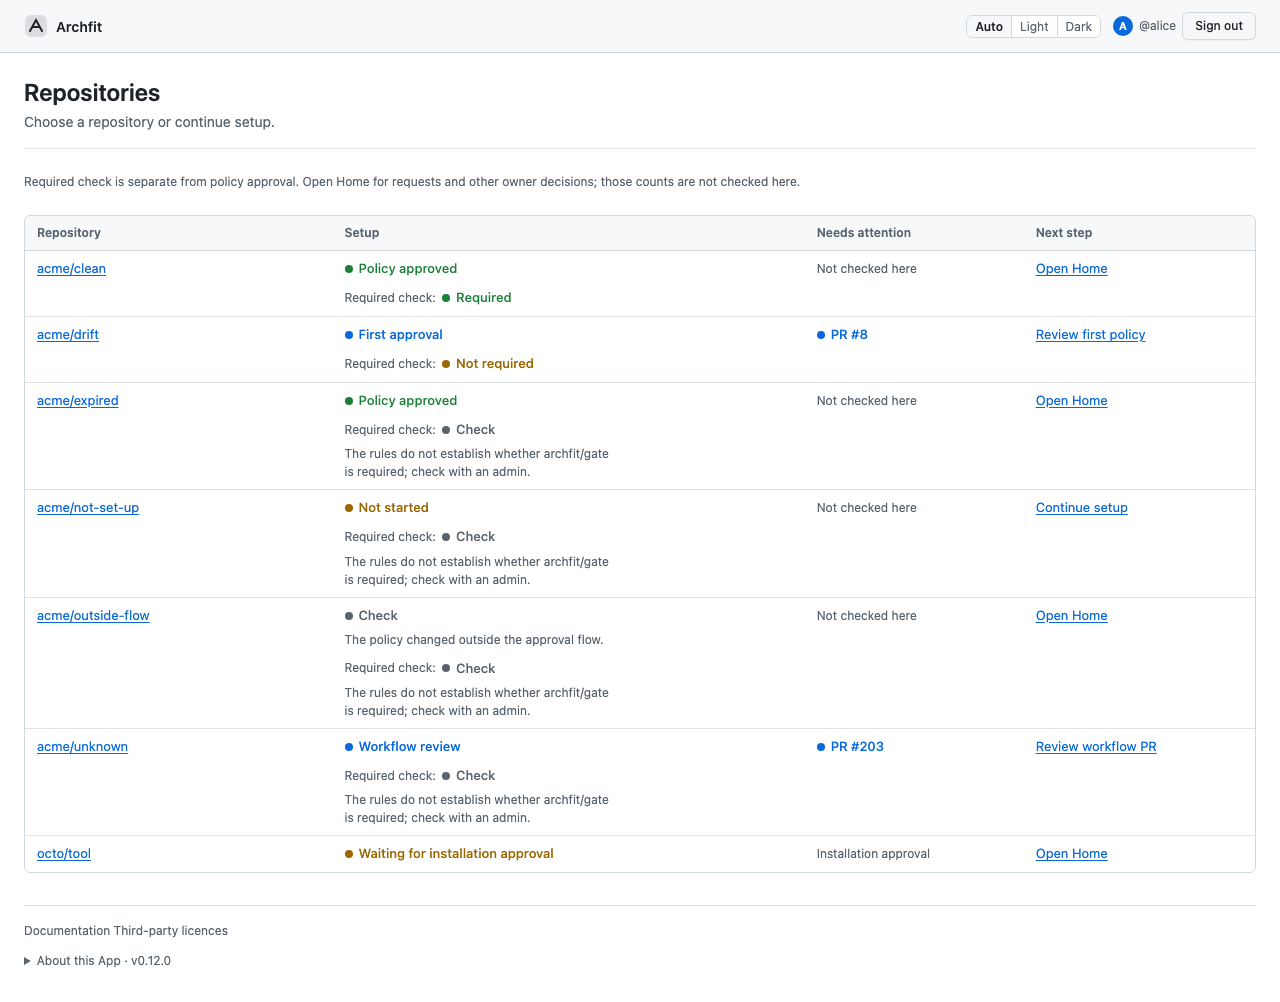
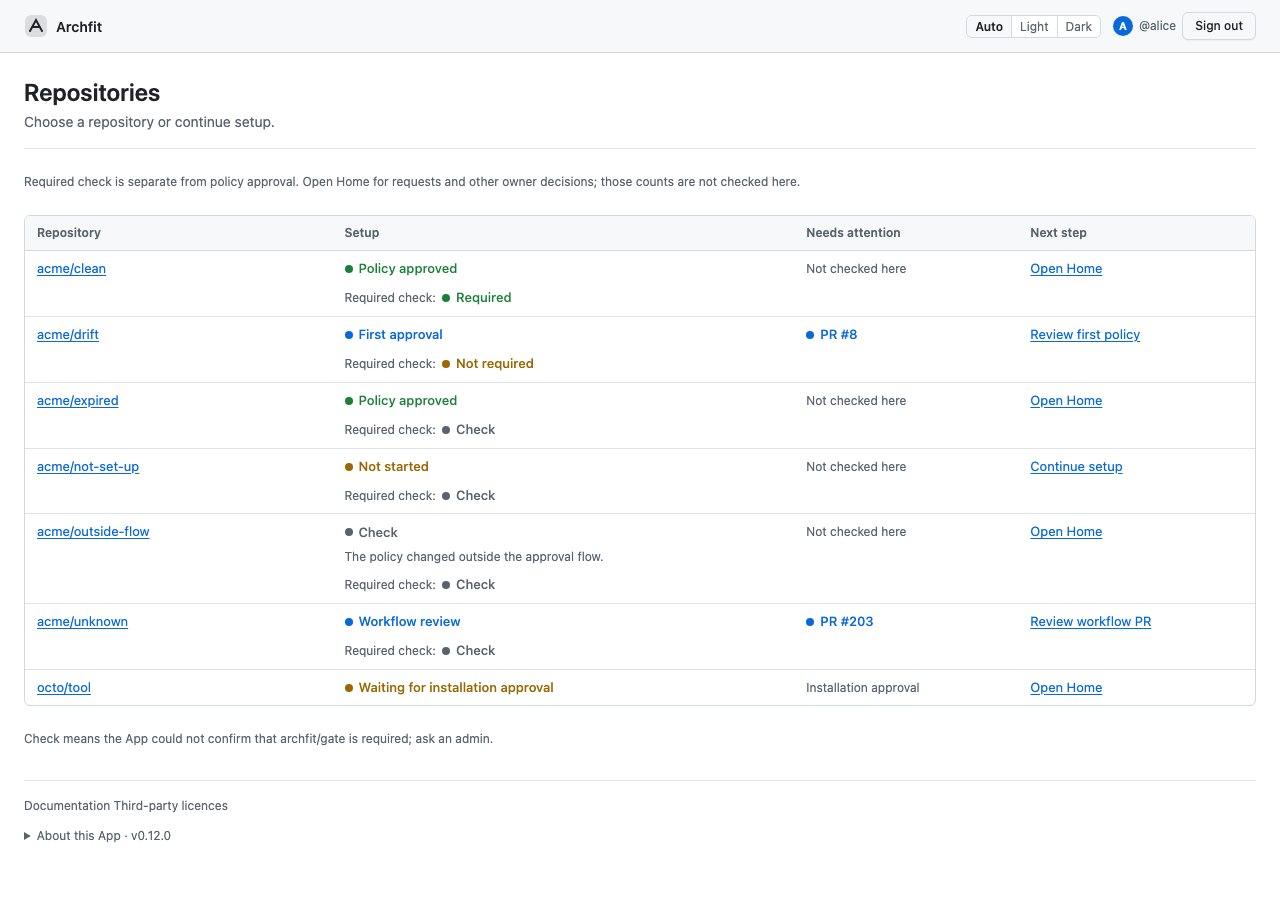
fix(web): route repository approvals through eligible surfaces

diff --git a/web/e2e/repos.spec.ts b/web/e2e/repos.spec.ts
@@ -23,7 +23,7 @@ for (const width of [1280, 390]) {
     }
     await expect(page.getByRole('link', { name: 'Review first policy' })).toHaveAttribute(
       'href',
-      '/r/acme/drift/owner/first?pull=8',
+      '/r/acme/drift/pull/8',
     );
     await expect(page.getByRole('link', { name: 'Review workflow PR' })).toHaveAttribute(
       'href',
@@ -32,6 +32,17 @@ for (const width of [1280, 390]) {
     await expect(page.getByText('PR #203', { exact: true })).toBeVisible();
     await expect(page.getByText('The policy changed outside the approval flow.')).toBeVisible();
     await expect(page.getByText('0 requests', { exact: true })).toHaveCount(0);
+    await expect(page.locator('main a[href*="/owner/"]')).toHaveCount(0);
+    await expect(
+      page.getByText('Check means the App could not confirm that archfit/gate is required; ask an admin.', {
+        exact: true,
+      }),
+    ).toHaveCount(1);
+    await expect(
+      page.getByText('The rules do not establish whether archfit/gate is required; check with an admin.', {
+        exact: true,
+      }),
+    ).toHaveCount(0);
     await expect(page.getByText('@alice')).toBeVisible();
     await expect(page.locator('form[action="/auth/logout"] input[name="csrf"]')).toHaveValue(session.csrf);
     if (width === 390) {
@@ -76,5 +87,11 @@ test('repositories: unread setup explains Check and offers Home without a false 
   await expect(page.getByText('The App could not read setup; open Home to try again.')).toBeVisible();
   await expect(page.getByRole('link', { name: 'Open Home', exact: true })).toHaveAttribute('href', '/r/acme/app');
   await expect(page.getByText('Policy approved', { exact: true })).toHaveCount(0);
+  await expect(page.getByText('The App could not read the required-check settings.', { exact: true })).toHaveCount(0);
+  await expect(
+    page.getByText('Check means the App could not confirm that archfit/gate is required; ask an admin.', {
+      exact: true,
+    }),
+  ).toHaveCount(1);
   await expectClean(page, reposApprovedCopy);
 });

diff --git a/web/src/lib/repos.ts b/web/src/lib/repos.ts
@@ -27,7 +27,7 @@ export function enforcementLabel(state: string): string {
   }
 }
 
-// Only the current repository's Home, PR and first-policy review are emitted by the list API.
+// Home and Pull resolve owner-action eligibility; the list must not bypass them.
 export function nextStep(row: RepoRow): { text: string; href: string } {
   const base = repoPage(row.full_name);
   const next = row.next_step;
@@ -35,8 +35,7 @@ export function nextStep(row: RepoRow): { text: string; href: string } {
     next &&
     next.text &&
     (next.href === base ||
-      (next.href.startsWith(base + '/') &&
-        /^(pull\/[1-9]\d*|owner\/first(?:\?pull=[1-9]\d*)?)$/.test(next.href.slice(base.length + 1))))
+      (next.href.startsWith(base + '/') && /^pull\/[1-9]\d*$/.test(next.href.slice(base.length + 1))))
   ) {
     return next;
   }

diff --git a/web/src/lib/repos.test.ts b/web/src/lib/repos.test.ts
@@ -30,7 +30,7 @@ describe('repository next destination', () => {
     enforcement: 'check',
     next_step: { text: 'Open Home', href: '/r/acme/app' },
   };
-  it.each(['/r/acme/app', '/r/acme/app/pull/203', '/r/acme/app/owner/first?pull=8', '/r/acme/app/owner/first'])(
+  it.each(['/r/acme/app', '/r/acme/app/pull/203', '/r/acme/app/pull/8'])(
     'keeps the server-selected destination %s',
     (href) => {
       const next = { text: 'Continue', href };
@@ -42,6 +42,8 @@ describe('repository next destination', () => {
     '//other.example',
     '/r/other/app',
     '/r/acme/app/pull/0',
+    '/r/acme/app/owner/first',
+    '/r/acme/app/owner/first?pull=8',
     '/r/acme/app/owner/first?pull=-1',
     '/r/acme/app/owner/first?pull=8&other=x',
     '/r/acme/app/pull/203/../../other',

diff --git a/web/src/pages/Repos.svelte b/web/src/pages/Repos.svelte
@@ -66,7 +66,6 @@
                     class:neutral={!['required', 'not_required'].includes(row.enforcement)}
                   >{enforcementLabel(row.enforcement)}</span>
                 </div>
-                {#if row.enforcement_reason}<p class="muted small reason">{row.enforcement_reason}</p>{/if}
               {/if}
             </td>
             <td>
@@ -83,6 +82,7 @@
       </tbody>
     </table>
   </div>
+  <p class="muted small">Check means the App could not confirm that archfit/gate is required; ask an admin.</p>
   {#if body.truncated}
     <p class="muted small">Only the first repositories by name are listed.</p>
   {/if}

diff --git a/internal/control/ui/overview_test.go b/internal/control/ui/overview_test.go
@@ -18,8 +18,8 @@ func TestRepoSetupStage(t *testing.T) {
 		{"empty", onboarding.Setup{}, "not_started", "/r/acme/app", "", false},
 		{"workflow only", onboarding.Setup{Workflow: true}, "not_started", "/r/acme/app", "", false},
 		{"policy needs workflow", onboarding.Setup{Policy: true}, "not_started", "/r/acme/app", "", true},
-		{"first PR without default policy", onboarding.Setup{State: "first_approval", FirstPull: 8}, "first_approval", "/r/acme/app/owner/first?pull=8", "PR #8", false},
-		{"default first approval", onboarding.Setup{State: "first_approval", Policy: true, Workflow: true}, "first_approval", "/r/acme/app/owner/first", "First approval", false},
+		{"first PR without default policy", onboarding.Setup{State: "first_approval", FirstPull: 8}, "first_approval", "/r/acme/app/pull/8", "PR #8", false},
+		{"default first approval", onboarding.Setup{State: "first_approval", Policy: true, Workflow: true}, "first_approval", "/r/acme/app", "First approval", false},
 		{"first approval needs workflow", onboarding.Setup{State: "first_approval", Policy: true}, "first_approval", "/r/acme/app", "", false},
 		{"workflow PR before first approval", onboarding.Setup{Policy: true, OpenPull: 203, State: "first_approval"}, "workflow_review", "/r/acme/app/pull/203", "PR #203", false},
 		{"workflow PR with stored approval", onboarding.Setup{Policy: true, OpenPull: 203, State: "not_admitted"}, "workflow_review", "/r/acme/app/pull/203", "PR #203", false},

diff --git a/internal/control/ui/overview.go b/internal/control/ui/overview.go
@@ -122,10 +122,10 @@ func applyOverviewSetup(row *overviewRow, setup onboarding.Setup) {
 	case "first_approval":
 		if setup.FirstPull > 0 {
 			row.Attention = fmt.Sprintf("PR #%d", setup.FirstPull)
-			row.NextStep = overviewNextStep{Text: "Review first policy", Href: fmt.Sprintf("%s/owner/first?pull=%d", base, setup.FirstPull)}
+			row.NextStep = overviewNextStep{Text: "Review first policy", Href: fmt.Sprintf("%s/pull/%d", base, setup.FirstPull)}
 		} else if setup.Policy && setup.Workflow {
 			row.Attention = "First approval"
-			row.NextStep = overviewNextStep{Text: "Review first policy", Href: base + "/owner/first"}
+			row.NextStep = overviewNextStep{Text: "Review first policy", Href: base}
 		} else {
 			row.NextStep = overviewNextStep{Text: "Continue setup", Href: base}
 		}

diff --git a/internal/control/ui/module.md b/internal/control/ui/module.md
@@ -132,10 +132,12 @@ Each row separates:
 - Optional `attention`: only Setup's existing `FirstPull` / `OpenPull` PR number or first-approval state.
   Request counts are **not read**: RepoStates and Setup expose none, and Home adds GitHub reads.
   The UI says those counts are not checked here, never invents zero, and directs readers to Home.
-- `next_step`: a server-selected text/href pair to Home, the first-policy review (including its PR),
-  or the workflow PR. Setup establishes workflow presence, not owner-action eligibility, so the list
-  links to the PR rather than guessing a workflow approval action. The SPA restricts destinations
-  to these routes in the same repository.
+- `next_step`: a server-selected text/href pair to Home or a PR in the same repository.
+  First-policy and workflow PRs link to Pull, which resolves owner-action eligibility. First approval
+  without a PR links to Home, whose setup step resolves eligibility. The list never links directly
+  to an owner action page. The SPA accepts only same-repository Home and positive-number Pull routes.
+  Enforcement reasons stay in the API, but the page explains the Check chip once below the list.
+  Row-specific setup reasons remain inline.
 
 A probe error or a row beyond the probe limit retains stored evidence, omits the setup stage, and shows
 Check with a reason; stored-state failures still fail the request. Waiting installations show their own
